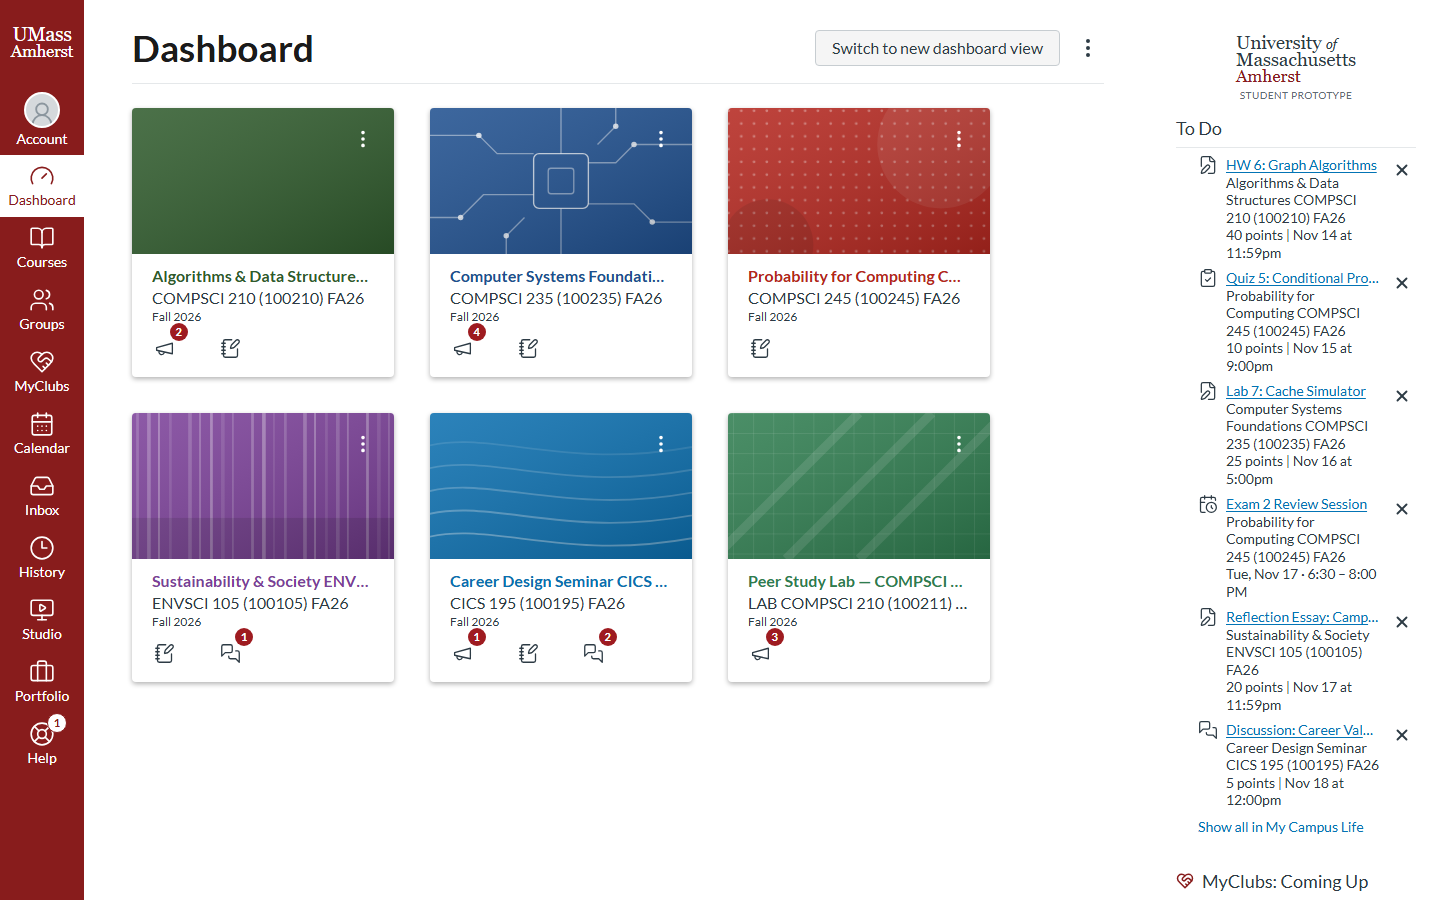
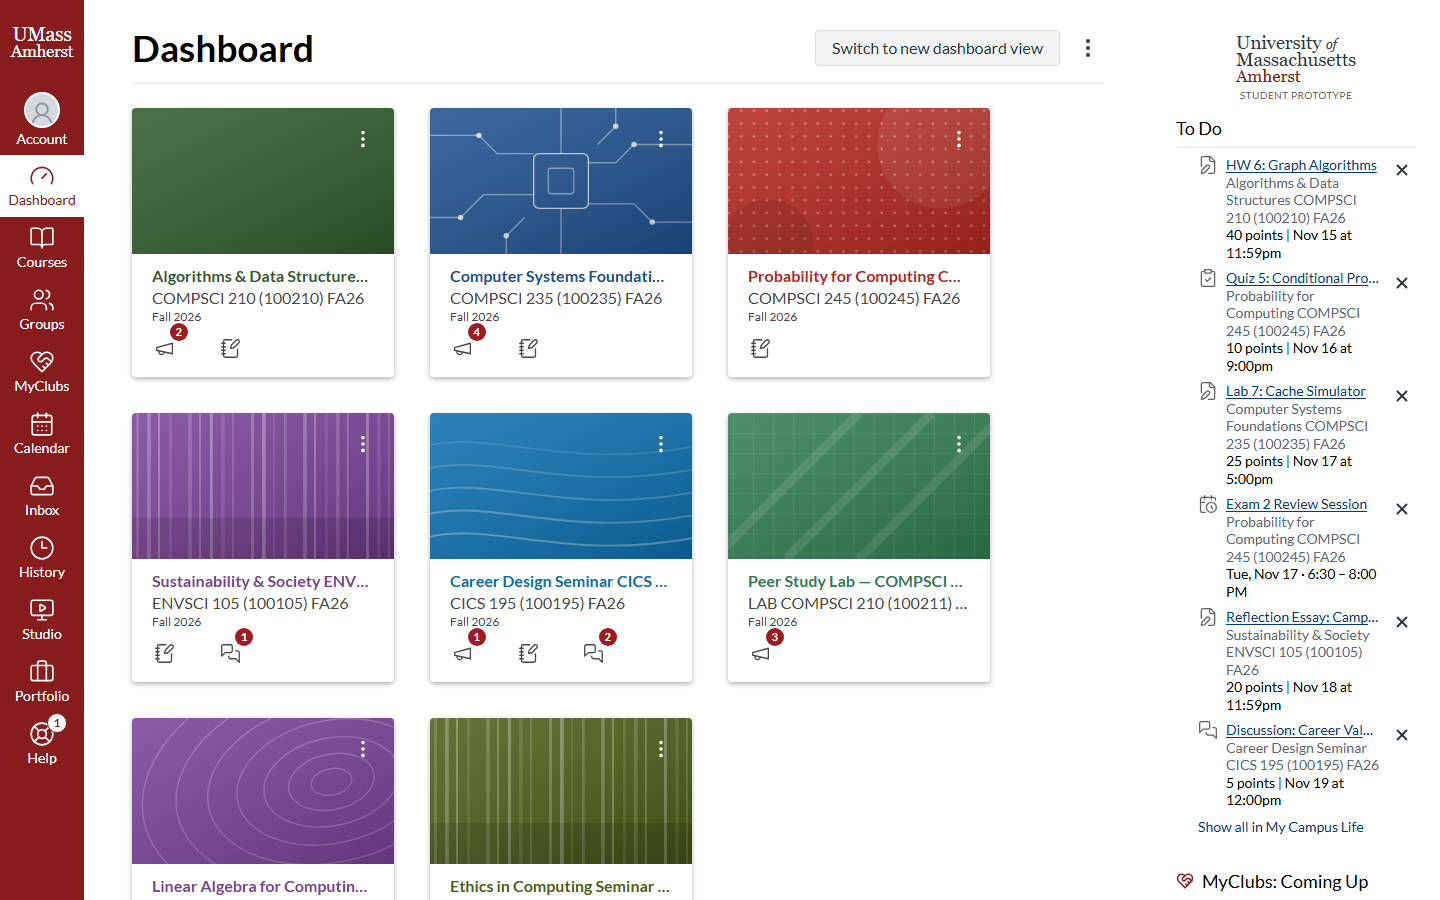
style: match real UMass Canvas dashboard colors, hover and card grid
Colors sampled from a real UMass Canvas screenshot:
- links #053a7f, headings #000, course code/term/card icons #474747,
  To Do course lines #586874, secondary buttons #f2f4f4 / #d7dade / #273540
- course card hover: raised shadow, title/code/term underline in the
  course color (as on Canvas)
- 8 demo course cards so the grid shows the same partial third row
- README screenshots refreshed; dashboard regression check updated

diff --git a/src/pages/Dashboard.tsx b/src/pages/Dashboard.tsx
@@ -1,4 +1,4 @@
-import { useState, type ReactNode } from 'react';
+import { useState, type CSSProperties, type ReactNode } from 'react';
 import { Link } from 'react-router-dom';
 import type { LucideIcon } from 'lucide-react';
 import {
@@ -43,7 +43,10 @@ const TODO_ICONS: Record<AcademicKind, LucideIcon> = {
 
 function CourseCard({ course }: { course: Course }) {
   return (
-    <article className="w-full overflow-hidden rounded-[4px] bg-white shadow-[0_2px_5px_rgba(0,0,0,0.3)] sm:w-[262px]">
+    <article
+      className="group w-full overflow-hidden rounded-[4px] bg-white shadow-[0_2px_5px_rgba(0,0,0,0.3)] transition-shadow hover:shadow-[0_4px_12px_rgba(0,0,0,0.35)] sm:w-[262px]"
+      style={{ '--course': course.color } as CSSProperties}
+    >
       <div className="relative h-[146px]">
         <Link to="/courses" tabIndex={-1} aria-hidden className="absolute inset-0">
           <PatternCover color={course.color} variant={course.cover} className="h-full w-full" />
@@ -60,13 +63,13 @@ function CourseCard({ course }: { course: Course }) {
       <div className="px-5 pt-3">
         <Link
           to="/courses"
-          className="block truncate text-base font-bold leading-[1.3] hover:underline"
+          className="block truncate text-base font-bold leading-[1.3] group-hover:underline"
           style={{ color: course.color }}
         >
           {course.name} {course.short}
         </Link>
-        <p className="truncate text-base leading-[1.375] text-ink">{course.code}</p>
-        <p className="text-xs leading-4 text-ink">{course.term}</p>
+        <p className="truncate text-base leading-[1.375] text-[#474747] group-hover:text-[var(--course)] group-hover:underline">{course.code}</p>
+        <p className="text-xs leading-4 text-[#474747] group-hover:text-[var(--course)] group-hover:underline">{course.term}</p>
       </div>
       <div className="mb-2 mt-1 flex h-10 items-center">
         {(Object.keys(course.badges) as (keyof Course['badges'])[]).map((key) => {
@@ -76,7 +79,7 @@ function CourseCard({ course }: { course: Course }) {
             <span key={key} className="flex basis-1/4 justify-center">
               <Link
                 to="/courses"
-                className="relative grid h-9 w-9 place-items-center rounded text-ink hover:bg-surface hover:text-link"
+                className="relative grid h-9 w-9 place-items-center rounded text-[#474747] hover:bg-surface hover:text-link"
                 aria-label={`${label}${count ? `, ${count} unread` : ''} (prototype)`}
               >
                 <Icon size={21} strokeWidth={1.5} aria-hidden />
@@ -96,7 +99,7 @@ function CourseCard({ course }: { course: Course }) {
 
 function SidebarHeading({ children }: { children: ReactNode }) {
   return (
-    <h2 className="flex items-center gap-2 border-b border-line-soft pb-2 text-[1.125rem] font-normal leading-[1.25] text-ink">
+    <h2 className="flex items-center gap-2 border-b border-line-soft pb-2 text-[1.125rem] font-normal leading-[1.25] text-black">
       {children}
     </h2>
   );
@@ -127,15 +130,15 @@ function TodoPanel() {
           const course = COURSE_BY_ID[t.courseId];
           return (
             <li key={t.id} className="flex gap-2 py-1 pl-[22px]">
-              <Icon size={20} strokeWidth={1.5} className="mt-[-1px] shrink-0 text-ink" aria-hidden />
+              <Icon size={20} strokeWidth={1.5} className="mt-[-1px] shrink-0 text-[#606060]" aria-hidden />
               <div className="min-w-0 flex-1">
                 <Link to="/courses" className="block truncate text-link underline underline-offset-2 hover:text-link-dark">
                   {t.title}
                 </Link>
-                <p className="text-ink">
+                <p className="text-[#586874]">
                   {course?.name} {course?.code}
                 </p>
-                <p className="text-ink">
+                <p className="text-black">
                   {t.points ? `${t.points} points | ` : ''}
                   {t.end ? `${relativeDay(t.start)} · ${fmtRange(t.start, t.end)}` : fmtDue(t.start)}
                 </p>
@@ -143,7 +146,7 @@ function TodoPanel() {
               <button
                 type="button"
                 onClick={() => setDismissed((d) => [...d, t.id])}
-                className="grid h-7 w-7 shrink-0 place-items-center rounded text-ink hover:bg-surface"
+                className="grid h-7 w-7 shrink-0 place-items-center rounded text-[#273540] hover:bg-surface"
                 aria-label={`Dismiss ${t.title}`}
               >
                 <X size={18} strokeWidth={2.5} aria-hidden />
@@ -193,7 +196,7 @@ export default function Dashboard() {
     <div className="flex flex-col lg:flex-row">
       <section className="min-w-0 flex-1 px-4 pb-6 pt-[29px] sm:px-8 lg:px-12">
         <div className="flex flex-wrap items-center justify-between gap-4 border-b border-line-soft pb-[17px]">
-          <h1 className="text-[2.3125rem] font-bold leading-none text-[#1b1b1b]">Dashboard</h1>
+          <h1 className="text-[2.3125rem] font-bold leading-none text-black">Dashboard</h1>
           <div className="flex items-center gap-3">
             <button
               type="button"

diff --git a/src/data/courses.ts b/src/data/courses.ts
@@ -63,6 +63,26 @@ export const COURSES: Course[] = [
     cover: 'grid',
     badges: { announcements: 3 },
   },
+  {
+    id: 'math235',
+    name: 'Linear Algebra for Computing',
+    code: 'MATH 235 (100236) FA26',
+    short: 'MATH 235',
+    term: 'Fall 2026',
+    color: '#7b3f99',
+    cover: 'topo',
+    badges: { announcements: 1, assignments: 0 },
+  },
+  {
+    id: 'cics110',
+    name: 'Ethics in Computing Seminar',
+    code: 'CICS 110 (100110) FA26',
+    short: 'CICS 110',
+    term: 'Fall 2026',
+    color: '#4b5d16',
+    cover: 'forest',
+    badges: { assignments: 0, discussions: 1 },
+  },
 ];
 
 export const COURSE_BY_ID: Record<string, Course | undefined> = Object.fromEntries(COURSES.map((c) => [c.id, c]));

diff --git a/src/index.css b/src/index.css
@@ -11,8 +11,8 @@
   --color-line: #c7cdd1;
   --color-line-soft: #e5e8ea;
   --color-surface: #f5f5f5;
-  --color-link: #0374b5;
-  --color-link-dark: #02598b;
+  --color-link: #053a7f;
+  --color-link-dark: #032c61;
   --color-badge: #9e1b20;
   --color-success: #0b874b;
   --color-warn: #a84400;
@@ -71,12 +71,12 @@ body {
     background: var(--color-link-dark);
   }
   .btn-secondary {
-    background: var(--color-surface);
-    border-color: var(--color-line);
-    color: var(--color-ink);
+    background: #f2f4f4;
+    border-color: #d7dade;
+    color: #273540;
   }
   .btn-secondary:hover {
-    background: #e7e9eb;
+    background: #e6e9ea;
   }
   .btn-ghost {
     background: transparent;
